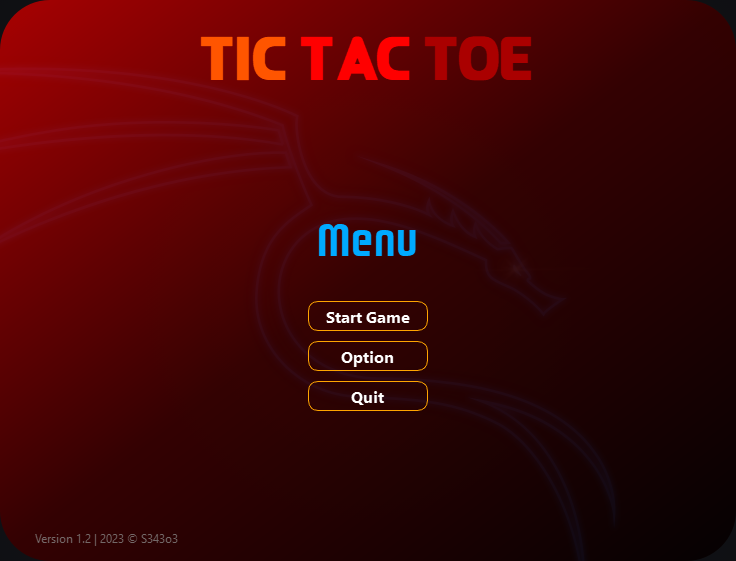
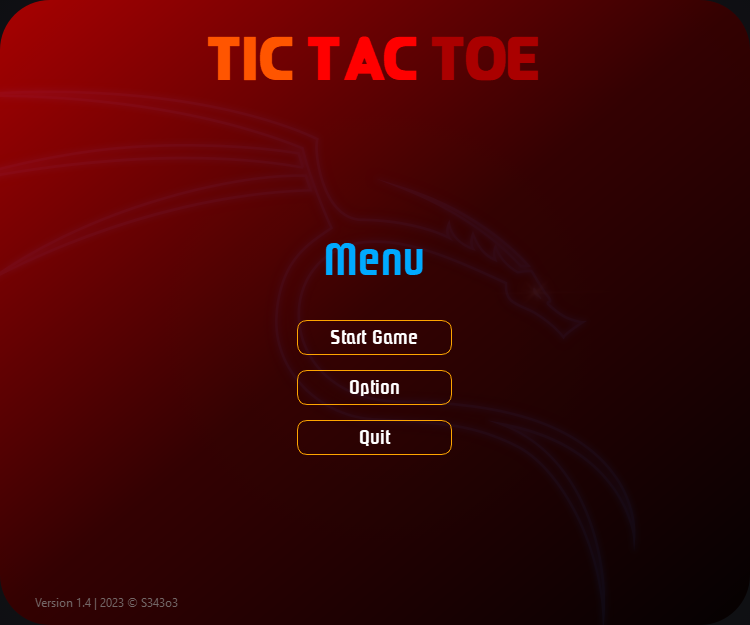
update version & screenshots

diff --git a/main.py b/main.py
@@ -7,7 +7,7 @@ from src.ui_Ui_main import Ui_MainWindow
 from Game import Player, Game
 from util import ButtonStyles
 
-VERSIONNUM: Final = "1.2"
+VERSIONNUM: Final = "1.4"
 BASE_DIR: Final = os.path.dirname(__file__)
 
 class MainWindow(QMainWindow):
@@ -15,7 +15,6 @@ class MainWindow(QMainWindow):
         super(MainWindow, self).__init__()
         self.ui = Ui_MainWindow()
         self.ui.setupUi(self)
-        self.start_animation()
         self.setWindowFlags(Qt.FramelessWindowHint)
         self.setAttribute(Qt.WA_TranslucentBackground)
         self.ui.copyrightLabel.setText(f"Version {VERSIONNUM} | 2023 © S343o3")
@@ -26,8 +25,8 @@ class MainWindow(QMainWindow):
         self.setup_gamebuttons()
         self.gameover = False
         self.block_gamefield()
-        self.ui.p1NameInput.setText("Test 1")
-        self.ui.p2NameInput.setText("Test 2")
+        # self.ui.p1NameInput.setText("Test 1")
+        # self.ui.p2NameInput.setText("Test 2")
         self.round = 0
         self.winner_btn = []
         self.AITimer = QTimer()
